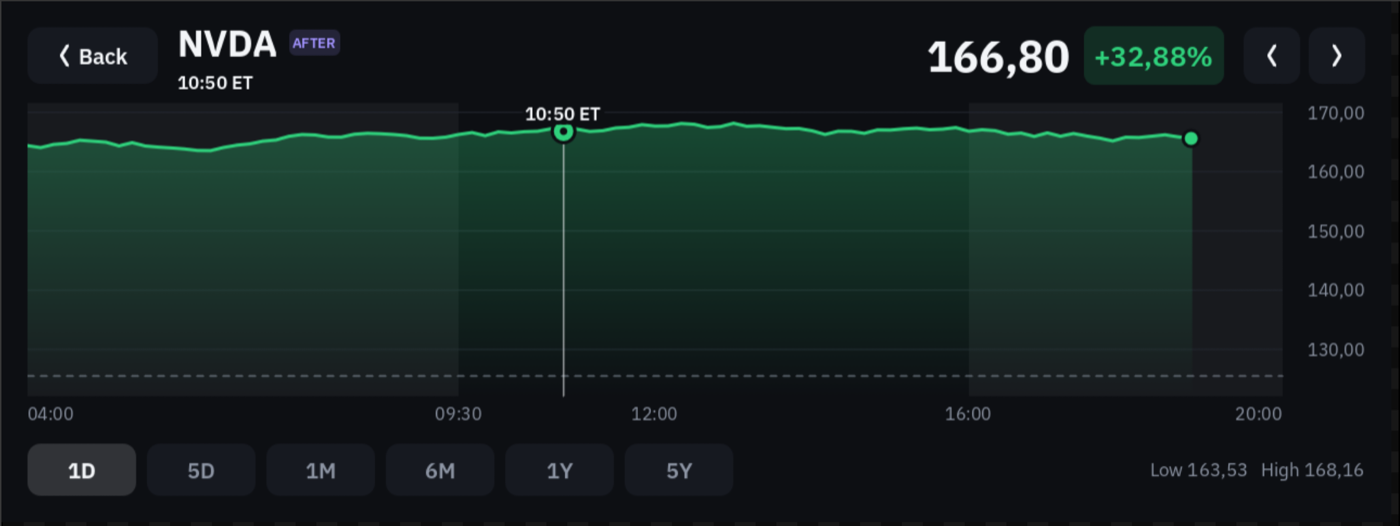
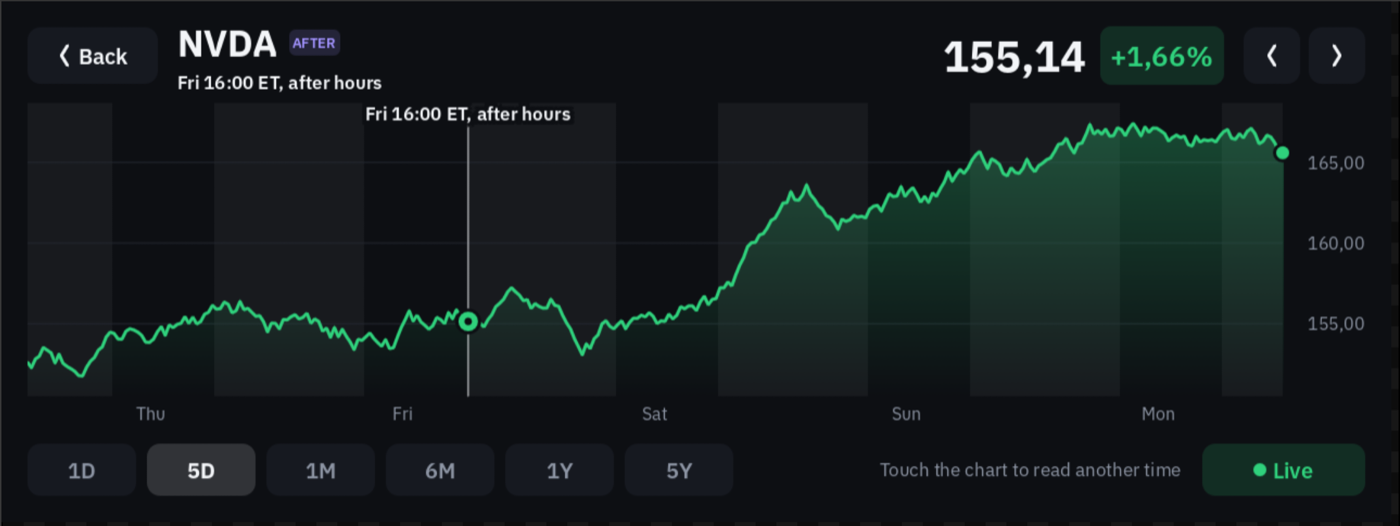
Read the chart by touching it: the Deck turns a slide into a scene swipe
Sliding a finger along the chart made the Deck swipe to the next scene: its
compositor treats any horizontal movement of more than 15 pixels as a scene
drag, cancels the widget's touch, and gives widgets no way to opt out (only a
single-scene layout or a system overlay switches it off).

The cursor is now placed by touching the chart, a quick tap included, and it
stays where the finger leaves it. A Live button (or fifteen seconds without
a touch) brings the live price back. Version 0.2.1.

diff --git a/live-markets/src/state.rs b/live-markets/src/state.rs
@@ -9,6 +9,8 @@ use crate::view::{Hits, Tap, resolve};
 pub const FLASH_MS: u64 = 900;
 /// How long a chart stays up after the last tap before the list comes back.
 pub const DETAIL_IDLE_MS: u64 = 90_000;
+/// How long the cursor stays where a finger left it before the live price comes back.
+pub const SCRUB_HOLD_MS: u64 = 15_000;
 
 #[derive(Clone, Copy, Debug, PartialEq, Eq)]
 pub struct Tick {
@@ -57,14 +59,16 @@ pub struct Detail {
     pub series: Option<Series>,
     /// The last attempt to load them failed.
     pub failed: bool,
-    /// A finger is down on the chart, reading the price at that time.
+    /// The cursor: where a finger last touched the chart, and the price read there.
     pub scrub: Option<Scrub>,
+    /// `uptime_ms` of the last touch of the chart.
+    pub scrub_ms: u64,
 }
 
 impl Detail {
     #[must_use]
     pub fn new(row: usize, frame: Frame) -> Self {
-        Self { row, frame, series: None, failed: false, scrub: None }
+        Self { row, frame, series: None, failed: false, scrub: None, scrub_ms: 0 }
     }
 }
 
@@ -157,6 +161,10 @@ impl State {
                 }
                 _ => false,
             },
+            Tap::Live => match &mut self.screen {
+                Screen::Detail(d) => d.scrub.take().is_some(),
+                Screen::List => false,
+            },
             Tap::Step(delta) => match &mut self.screen {
                 Screen::Detail(d) if !self.rows.is_empty() => {
                     let n = self.rows.len() as isize;
@@ -169,19 +177,27 @@ impl State {
         }
     }
 
-    /// A finger is on the chart at `x` pixels from its left edge, or has left it (`None`).
-    /// Whether that changed what is on show. A finger on the chart counts as a touch.
+    /// A finger is on the chart at `x` pixels from its left edge (`None`: there is none). The cursor goes
+    /// there, and stays where the finger leaves it until `expire_scrub`, a tap on Live, or a change of
+    /// frame or symbol: the Deck turns any slide of more than a few pixels into a swipe of the scene, so
+    /// the chart is read by touching it, not by sliding along it. Whether the cursor moved.
     pub fn set_scrub(&mut self, x: Option<f32>) -> bool {
         let Screen::Detail(d) = &mut self.screen else { return false };
-        let now = x.map(Scrub::Px);
-        if now.is_none() && matches!(d.scrub, Some(Scrub::Fraction(_))) {
-            // A cursor set for a sample screen stays until a finger comes.
-            return false;
-        }
-        if now.is_some() {
-            self.touched_ms = self.uptime_ms;
-        }
+        let Some(x) = x else { return false };
+        self.touched_ms = self.uptime_ms;
+        d.scrub_ms = self.uptime_ms;
+        let now = Some(Scrub::Px(x));
         std::mem::replace(&mut d.scrub, now) != now
+    }
+
+    /// Lets the cursor go when nobody has touched the chart for a while. Whether it did.
+    pub fn expire_scrub(&mut self) -> bool {
+        let Screen::Detail(d) = &mut self.screen else { return false };
+        let held = matches!(d.scrub, Some(Scrub::Px(_))) && self.uptime_ms.saturating_sub(d.scrub_ms) >= SCRUB_HOLD_MS;
+        if held {
+            d.scrub = None;
+        }
+        held
     }
 
     /// The chart to fetch: the symbol's query and kind, and the time frame; `None` on the list.
@@ -464,18 +480,48 @@ mod tests {
     }
 
     #[test]
-    fn a_finger_on_the_chart_is_tracked_until_it_leaves() {
+    fn the_cursor_goes_where_a_finger_touches_and_stays_when_it_leaves() {
         let mut s = state(&["NVDA"]);
         assert!(!s.set_scrub(Some(10.0)), "the list has no chart to read");
         s.screen = Screen::Detail(Detail::new(0, Frame::Day));
         s.uptime_ms = 7_000;
         assert!(s.set_scrub(Some(10.0)));
-        assert_eq!(s.touched_ms, 7_000, "a finger on the chart keeps it open");
+        assert_eq!(s.touched_ms, 7_000, "a touch of the chart keeps it open");
         assert!(!s.set_scrub(Some(10.0)), "the same place changes nothing");
         assert!(s.set_scrub(Some(12.0)));
-        assert!(s.set_scrub(None));
+        assert!(!s.set_scrub(None), "a finger leaving is not a change");
+        assert!(matches!(&s.screen, Screen::Detail(d) if d.scrub == Some(Scrub::Px(12.0))));
+    }
+
+    #[test]
+    fn the_cursor_lets_go_after_a_while_but_not_a_sample_one() {
+        let mut s = state(&["NVDA"]);
+        s.screen = Screen::Detail(Detail::new(0, Frame::Day));
+        s.uptime_ms = 1_000;
+        s.set_scrub(Some(40.0));
+        s.uptime_ms = 1_000 + SCRUB_HOLD_MS - 1;
+        assert!(!s.expire_scrub());
+        s.uptime_ms += 1;
+        assert!(s.expire_scrub());
         assert!(matches!(&s.screen, Screen::Detail(d) if d.scrub.is_none()));
-        assert!(!s.set_scrub(None));
+        assert!(!s.expire_scrub());
+        if let Screen::Detail(d) = &mut s.screen {
+            d.scrub = Some(Scrub::Fraction(0.5));
+        }
+        s.uptime_ms += 10 * SCRUB_HOLD_MS;
+        assert!(!s.expire_scrub(), "a cursor of a sample screen stays");
+    }
+
+    #[test]
+    fn the_live_button_lets_the_cursor_go() {
+        let mut s = state(&["NVDA"]);
+        s.screen = Screen::Detail(Detail { scrub: Some(Scrub::Px(30.0)), ..Detail::new(0, Frame::Day) });
+        let mut layout = crate::view::detail_layout(1280.0, 480.0);
+        layout.live = Some(Rect::new(1000.0, 400.0, 150.0, 48.0));
+        s.hits = Some(Hits::Detail(layout));
+        assert!(s.on_tap(1050.0, 420.0));
+        assert!(matches!(&s.screen, Screen::Detail(d) if d.scrub.is_none()));
+        assert!(!s.on_tap(1050.0, 420.0), "nothing to let go of any more");
     }
 
     #[test]

diff --git a/live-markets/src/view.rs b/live-markets/src/view.rs
@@ -74,6 +74,8 @@ pub struct DetailLayout {
     pub back: Rect,
     pub prev: Option<Rect>,
     pub next: Option<Rect>,
+    /// The button that lets the cursor go; there while the cursor is on the chart.
+    pub live: Option<Rect>,
     pub frames: [Rect; 6],
     /// The chart with its axis labels.
     pub chart: Rect,
@@ -120,6 +122,7 @@ pub fn detail_layout(w: f32, h: f32) -> DetailLayout {
         back,
         prev,
         next,
+        live: None,
         frames,
         chart,
         title_x: back.x + back.w + if class == DetailClass::Compact { 10.0 } else { 18.0 },
@@ -144,6 +147,8 @@ pub enum Tap {
     Frame(Frame),
     /// The previous (-1) or next (1) symbol.
     Step(isize),
+    /// Back to the live price, from the price the cursor reads.
+    Live,
 }
 
 #[must_use]
@@ -151,7 +156,9 @@ pub fn resolve(hits: &Hits, x: f32, y: f32) -> Tap {
     match hits {
         Hits::List { cells, first } => cells.iter().position(|c| c.contains(x, y)).map_or(Tap::Nothing, |i| Tap::Open(first + i)),
         Hits::Detail(d) => {
-            if d.back.contains(x, y) {
+            if d.live.is_some_and(|r| r.contains(x, y)) {
+                Tap::Live
+            } else if d.back.contains(x, y) {
                 Tap::Back
             } else if d.prev.is_some_and(|r| r.contains(x, y)) {
                 Tap::Step(-1)
@@ -634,7 +641,7 @@ fn chart_message(cw: f32, ch: f32, line: &str) -> Vec<Draw> {
 #[expect(clippy::cast_precision_loss, reason = "a screen size in pixels")]
 fn detail_screen(state: &State, d: &Detail, w: u32, h: u32, now: i64) -> (Node, Hits) {
     let (wf, hf) = (w as f32, h as f32);
-    let layout = detail_layout(wf, hf);
+    let mut layout = detail_layout(wf, hf);
     let item = &state.rows[d.row];
     let kind = item.entry.kind;
     let view = item.quote.as_ref().map(Quote::view);
@@ -767,16 +774,31 @@ fn detail_screen(state: &State, d: &Detail, w: u32, h: u32, now: i64) -> (Node, 
     for (r, frame) in layout.frames.iter().zip(Frame::ALL) {
         children.push(frame_button(*r, frame.label(kind), frame == d.frame, button_size));
     }
-    if class == DetailClass::Full
-        && let Some(p) = &points {
+    if class == DetailClass::Full {
+        let frame_row = layout.frames[0];
+        if scrub.is_some() {
+            // The cursor is on the chart: how to move it, and the button that lets it go.
+            let live = Rect::new(wf - layout.pad - 150.0, frame_row.y, 150.0, frame_row.h);
+            layout.live = Some(live);
+            children.push(button_box(
+                live,
+                UP.with_alpha(0.16),
+                vec![dot(UP), text("Live", style!(size: 20, weight: FontWeight::SEMIBOLD, color: UP))],
+            ));
+            children.push(row(
+                props!(inset_right: layout.pad + live.w + 18.0, inset_top: frame_row.y, height: frame_row.h, cross_align: CrossAlign::Center),
+                [text("Touch the chart to read another time", style!(size: 17, color: MUTE))],
+            ));
+        } else if let Some(p) = &points {
             let lo = p.iter().map(|x| x.close).fold(f64::INFINITY, f64::min);
             let hi = p.iter().map(|x| x.close).fold(f64::NEG_INFINITY, f64::max);
             let line = join(&["Low ", &format::price(lo, kind), "   High ", &format::price(hi, kind)]);
             children.push(row(
-                props!(inset_right: layout.pad, inset_top: layout.frames[0].y, height: layout.frames[0].h, cross_align: CrossAlign::Center),
+                props!(inset_right: layout.pad, inset_top: frame_row.y, height: frame_row.h, cross_align: CrossAlign::Center),
                 [text(line, style!(size: 17, color: MUTE))],
             ));
         }
+    }
     children.push(tap_area(wf, hf));
     (col(props!(width: wf, height: hf, background: BG), children), Hits::Detail(layout))
 }
@@ -942,5 +964,15 @@ mod tests {
                 assert!(matches!(hits, Hits::List { .. }), "{w}x{h}");
             }
         }
+    }
+
+    #[test]
+    fn the_live_button_is_pressed_before_anything_under_it() {
+        let mut l = detail_layout(1280.0, 480.0);
+        let live = Rect::new(1000.0, 400.0, 150.0, 48.0);
+        l.live = Some(live);
+        let hits = Hits::Detail(l);
+        assert_eq!(resolve(&hits, live.x + 10.0, live.y + 10.0), Tap::Live);
+        assert_eq!(resolve(&hits, 5.0, 5.0), Tap::Nothing);
     }
 }

diff --git a/live-markets/src/lib.rs b/live-markets/src/lib.rs
@@ -291,6 +291,7 @@ mod widget {
         let (closed, tree, hits, animating) = STATE.with_borrow_mut(|s| {
             s.uptime_ms += u64::from(delta_ms.min(5_000));
             let closed = s.close_if_idle();
+            s.expire_scrub();
             let (tree, hits) = view::screen(s, vp.width, vp.height, now);
             (closed, tree, hits, s.flashing())
         });
@@ -299,8 +300,9 @@ mod widget {
         // buttons, and only then are the new screen's buttons kept for the next taps.
         let tapped = STATE.with_borrow_mut(|s| {
             let changed = result.clicks.get("tap").is_some_and(|hit| s.on_tap(hit.x, hit.y));
-            // A finger held on the chart, wherever it has slid to (it may have left the chart's edge).
-            let scrubbed = s.set_scrub(result.drags.get("scrub").map(|hit| hit.x));
+            // A finger on the chart, or one that touched it for less than a frame: the cursor goes there.
+            let touch = result.drags.get("scrub").or_else(|| result.clicks.get("scrub"));
+            let scrubbed = s.set_scrub(touch.map(|hit| hit.x));
             s.hits = Some(hits);
             changed || scrubbed
         });

diff --git a/README.md b/README.md
@@ -31,14 +31,20 @@ previous close. Buttons choose the time frame: 1D, 5D, 1M, 6M, 1Y and 5Y (a coin
 because the service keeps two days of its minutes). The arrows beside the price step to the next and the
 previous symbol; Back returns to the list, and so does ninety seconds without a tap.
 
-**Reading the price at a time.** Put a finger on the chart and keep it there, sliding along. A cursor
-follows the finger and the header shows the price at that moment, its time, and its move since the
-frame began (since the previous close, on a day). A pre-market or after-hours moment is tagged as such.
-Lift the finger and the live price comes back.
+**Reading the price at a time.** Touch the chart where you want to know the price. A cursor jumps to that
+moment and stays there, and the header shows the price then, its time, and its move since the frame began
+(since the previous close, on a day). Touch somewhere else to move it. The Live button, or fifteen seconds
+without a touch, brings the live price back. A pre-market or after-hours moment is tagged as such.
+
+Why touch and not slide? The Deck turns any horizontal slide of more than 15 pixels (under 2 mm on its
+screen) into a swipe to the next scene, cancels the widget's touch, and gives a widget no way to opt out:
+it is decided in the firmware's compositor (`touch_gesture.rs` and `egl_compositor.rs` in `bmc-main`), and
+only a layout with a single scene, or a system overlay, switches it off. Sliding along the chart would
+therefore swipe the scene away, so the chart is read by touching it.
 
 ![A day: pre-market and after-hours shaded, the previous close dashed](docs/chart-1D-post.png)
 
-![A finger held on the chart: the price at 10:50 and its move, read off the cursor](docs/chart-scrub.png)
+![A touch on the chart: the price at 16:00 on Friday, after hours, and the Live button to go back](docs/chart-scrub.png)
 
 ![Five days, each with its pre-market and after-hours](docs/chart-5D.png)
 
@@ -120,9 +126,11 @@ tools/shot.sh chart:5D /tmp/chart.png     # sample: chart:1D, chart:1D:post, cha
 - A chart marks a stock's sessions by the exchange's clock, which the service sends with every bar.
 - Taps go to one transparent area over the screen and are read against the buttons that were on screen
   when the finger came down, so a screen that changes under a finger cannot press the wrong button.
-- The chart is a touch area of its own, and the Deck gives a finger to the smallest area it lands in, so a
-  finger held on the chart is followed there (even when it slides past the chart's edge) and never presses
-  a button. The sample screens can show a cursor: `tools/shot.sh chart:1D:post:43 out.png` puts it 43 % along.
+- The chart is a touch area of its own, and the Deck gives a finger to the smallest area it lands in, so
+  a touch on the chart moves the cursor and never presses a button, while a touch anywhere else goes to the
+  screen-wide tap area. A touch so quick that it is over between two frames still moves the cursor (it
+  arrives as a click). The sample screens can show a cursor: `tools/shot.sh chart:5D:regular:35 out.png`
+  puts it 35 % along.
 
 ## License
 
